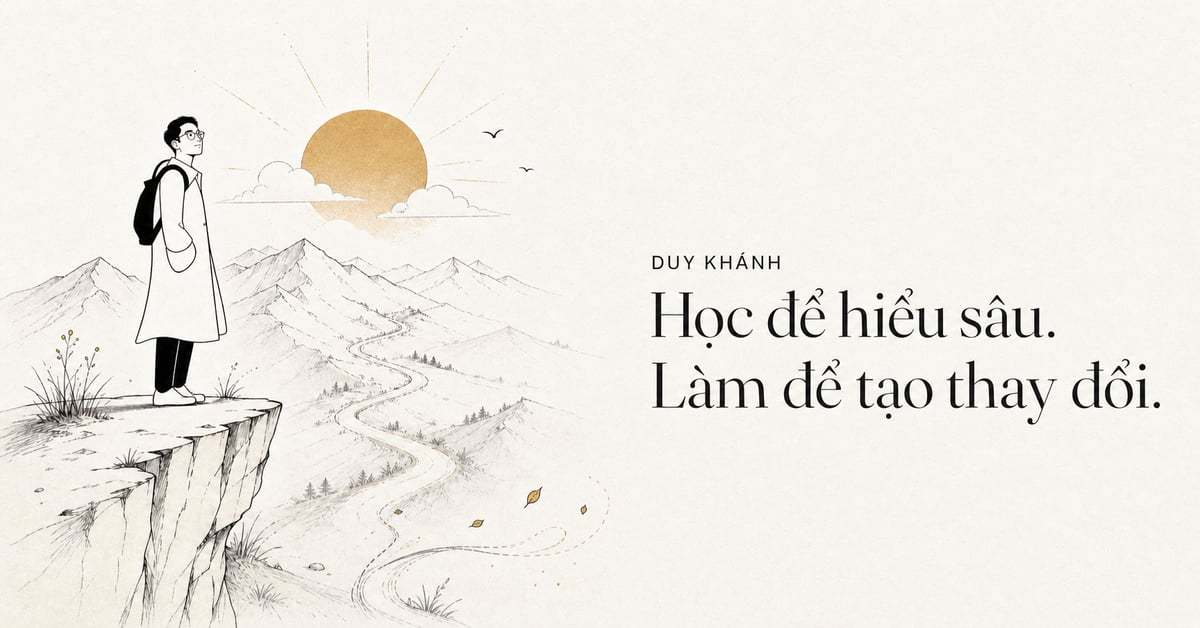
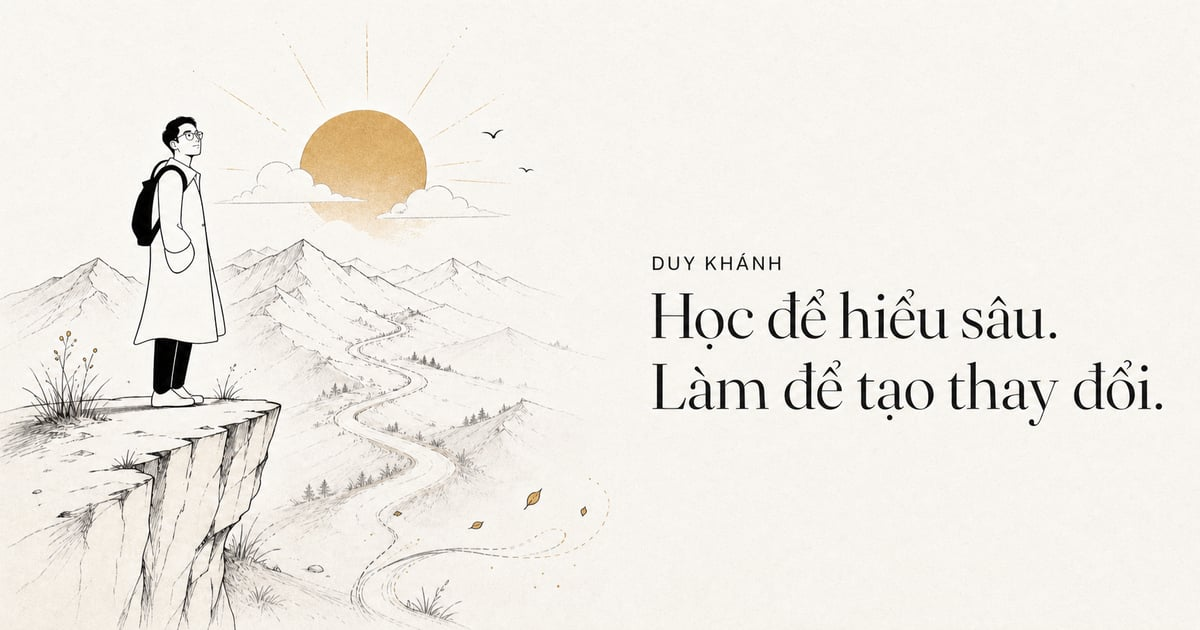
fix(assets): export the social image at 1200x630
The previous export kept the source ratio (1200x628); AGENTS.md sets
1200x630. Re-export from the original PNG with a centre crop of 2 px and
update the Open Graph metadata.

diff --git a/src/app/layout.tsx b/src/app/layout.tsx
@@ -56,7 +56,7 @@ export const metadata: Metadata = {
 			{
 				url: absoluteUrl('/og-editorial-premium.jpg'),
 				width: 1200,
-				height: 628,
+				height: 630,
 				alt: 'Duy Khánh — Tôi vẫn đang học cách trở thành một người thầy tốt hơn.',
 			},
 		],

diff --git a/src/app/page.tsx b/src/app/page.tsx
@@ -22,7 +22,7 @@ export const metadata: Metadata = {
 			{
 				url: absoluteUrl('/og-editorial-premium.jpg'),
 				width: 1200,
-				height: 628,
+				height: 630,
 				alt: 'Duy Khánh — Tôi vẫn đang học cách trở thành một người thầy tốt hơn.',
 			},
 		],
